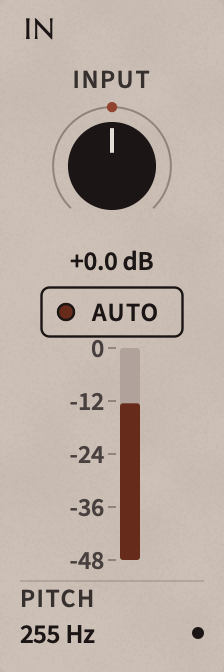
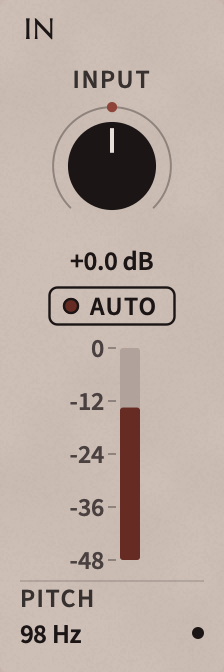
Roarschach: IN's AUTO switch drawn smaller, clear of the meter's 0 dB mark
The switch's outline touched the 0 on the input meter's scale. AUTO is now a
compact switch: drawn 20 px high (with a smaller lamp and label) inside its
full 26 px hit target, 64 px wide, and placed so it sits about 8 px from the
knob's value above and the meter's 0 dB mark below. The README's IN picture
is retaken.

Changed region(s): [[0.1562, 0.4062, 0.8438, 0.5], [0.0938, 0.9062, 0.4375, 0.9688], [0.5312, 0.5938, 0.625, 0.625]]

diff --git a/roarschach/Source/RoarschachLookAndFeel.cpp b/roarschach/Source/RoarschachLookAndFeel.cpp
@@ -39,9 +39,12 @@ namespace
     const juce::Identifier c_switchProperty { "roarschachSwitch" };       // 1: a switch with its name, 2: ... reading ON / OFF
     const juce::Identifier c_tagProperty { "roarschachTag" };             // an outlined ink tag (filled in the dye while toggled)
     const juce::Identifier c_circledProperty { "roarschachCircled" };     // a glyph in an outlined ink circle (the header's ?)
+    const juce::Identifier c_compactProperty { "roarschachCompact" };     // a switch drawn smaller inside its hit target
 
     int switchStyle(const juce::Button& b) { return static_cast<int>(b.getProperties().getWithDefault(c_switchProperty, 0)); }
     bool isTag(const juce::Button& b) { return static_cast<bool>(b.getProperties().getWithDefault(c_tagProperty, false)); }
+    bool isCompact(const juce::Button& b) { return static_cast<bool>(b.getProperties().getWithDefault(c_compactProperty, false)); }
+    constexpr float c_compactHeight = 20.0f;   // a compact switch as drawn (its button is the full hit target)
 
     constexpr float c_caretColumn = 11.0f;   // a menu chip's caret, at its right end
     constexpr float c_caretGap = 6.0f;       // ... and the clear space before it
@@ -130,6 +133,8 @@ namespace
             r = r.withSizeKeepingCentre(r.getWidth(), std::min(r.getHeight(), c_dialogButtonHeight));
         else if (static_cast<int>(b.getProperties().getWithDefault(c_menuChipProperty, 0)) != 0)
             r = r.withSizeKeepingCentre(r.getWidth(), std::min(r.getHeight(), static_cast<float>(Metrics::chipHeight)));   // (the button is its hit target)
+        else if (isCompact(b))
+            r = r.withSizeKeepingCentre(r.getWidth(), std::min(r.getHeight(), c_compactHeight));
         return r.reduced(0.5f);
     }
 
@@ -301,6 +306,12 @@ void RoarschachLookAndFeel::setMenuChip(juce::Button& b, bool off)
 void RoarschachLookAndFeel::setSwitch(juce::Button& b, bool wordsOnOff)
 {
     b.getProperties().set(c_switchProperty, wordsOnOff ? 2 : 1);
+    b.repaint();
+}
+
+void RoarschachLookAndFeel::setCompact(juce::Button& b)
+{
+    b.getProperties().set(c_compactProperty, true);
     b.repaint();
 }
 
@@ -959,8 +970,9 @@ void RoarschachLookAndFeel::drawButtonText(juce::Graphics& g, juce::TextButton& 
         // A switch: a lamp at its left (on: a dye blot in an ink ring; off: the ring alone, hollow), then
         // its name, or ON / OFF where a caption over it names it. State by shape and word, not tone alone.
         const bool on = button.getToggleState();
-        auto r = pillBounds(button).reduced(8.0f, 0.0f);
-        const float d = 9.0f;
+        const bool compact = isCompact(button);
+        auto r = pillBounds(button).reduced(compact ? 7.0f : 8.0f, 0.0f);
+        const float d = compact ? 8.0f : 9.0f;
         const auto lamp = r.removeFromLeft(d).withSizeKeepingCentre(d, d);
         if (on)
         {
@@ -974,7 +986,7 @@ void RoarschachLookAndFeel::drawButtonText(juce::Graphics& g, juce::TextButton& 
             g.setColour(isMouseOverButton ? ink : inkFaint);
             g.drawEllipse(lamp.reduced(0.6f), 1.3f);
         }
-        r.removeFromLeft(5.0f);
+        r.removeFromLeft(compact ? 4.0f : 5.0f);
         const auto word = sw == 2 ? juce::String(on ? "ON" : "OFF") : button.getButtonText().toUpperCase();
         g.setFont(font);
         g.setColour(!button.isEnabled() ? inkFaint : on || isMouseOverButton ? ink : inkDim);
@@ -1058,6 +1070,8 @@ juce::Font RoarschachLookAndFeel::getTextButtonFont(juce::TextButton& button, in
         return m_fonts.body(Type::body);
     if (static_cast<int>(button.getProperties().getWithDefault(c_menuChipProperty, 0)) != 0)
         return m_fonts.value(Type::chip);   // (untracked: mode names are long)
+    if (isCompact(button))
+        buttonHeight = static_cast<int>(c_compactHeight);
     return m_fonts.label(std::min(Type::button, static_cast<float>(buttonHeight) * 0.66f));
 }
 

diff --git a/roarschach/Source/SignalFlowStrip.cpp b/roarschach/Source/SignalFlowStrip.cpp
@@ -1469,6 +1469,7 @@ public:
         m_auto.setButtonText("AUTO");
         m_auto.setClickingTogglesState(true);
         RoarschachLookAndFeel::setSwitch(m_auto);
+        RoarschachLookAndFeel::setCompact(m_auto);
         m_auto.setTooltip(tooltipFor(Params::inAuto));
         m_auto.setTitle("Auto Level");
         addAndMakeVisible(m_auto);
@@ -1483,7 +1484,9 @@ public:
     void resized() override
     {
         placeKnob(*m_knobs[0], { 6, c_headerHeight + 6, getWidth() - 12, c_captionHeight + 92 });
-        m_auto.setBounds(juce::Rectangle<int>(getWidth() / 2 - 36, c_headerHeight + 6 + c_captionHeight + 92 + 4, 72, c_hit));
+        // AUTO between the knob's value and the meter: drawn 20 high in the middle of its hit target, so its
+        // outline clears the value above and the meter's 0 dB mark below by about the same space.
+        m_auto.setBounds(juce::Rectangle<int>(getWidth() / 2 - 32, c_headerHeight + 6 + c_captionHeight + 92 + 1, 64, c_hit));
         fitCaptions();
     }
 

diff --git a/roarschach/Source/RoarschachLookAndFeel.h b/roarschach/Source/RoarschachLookAndFeel.h
@@ -51,6 +51,9 @@ public:
     /** A switch (IN's and OUTPUT's AUTO): an ink outline with a lamp; it reads its own name, or ON and OFF
         where a caption names it (wordsOnOff). */
     static void setSwitch(juce::Button&, bool wordsOnOff = false);
+    /** Draws a switch smaller inside its hit target, with a smaller lamp and label (IN's AUTO, which sits
+        between the knob's value and the meter's scale). */
+    static void setCompact(juce::Button&);
     /** A tag (SAVE): an outlined ink tag, no raised fill, filled with the dyed ink while toggled on. */
     static void setTag(juce::Button&);
     /** A glyph button drawn in an outlined ink circle (the header's ?). */
